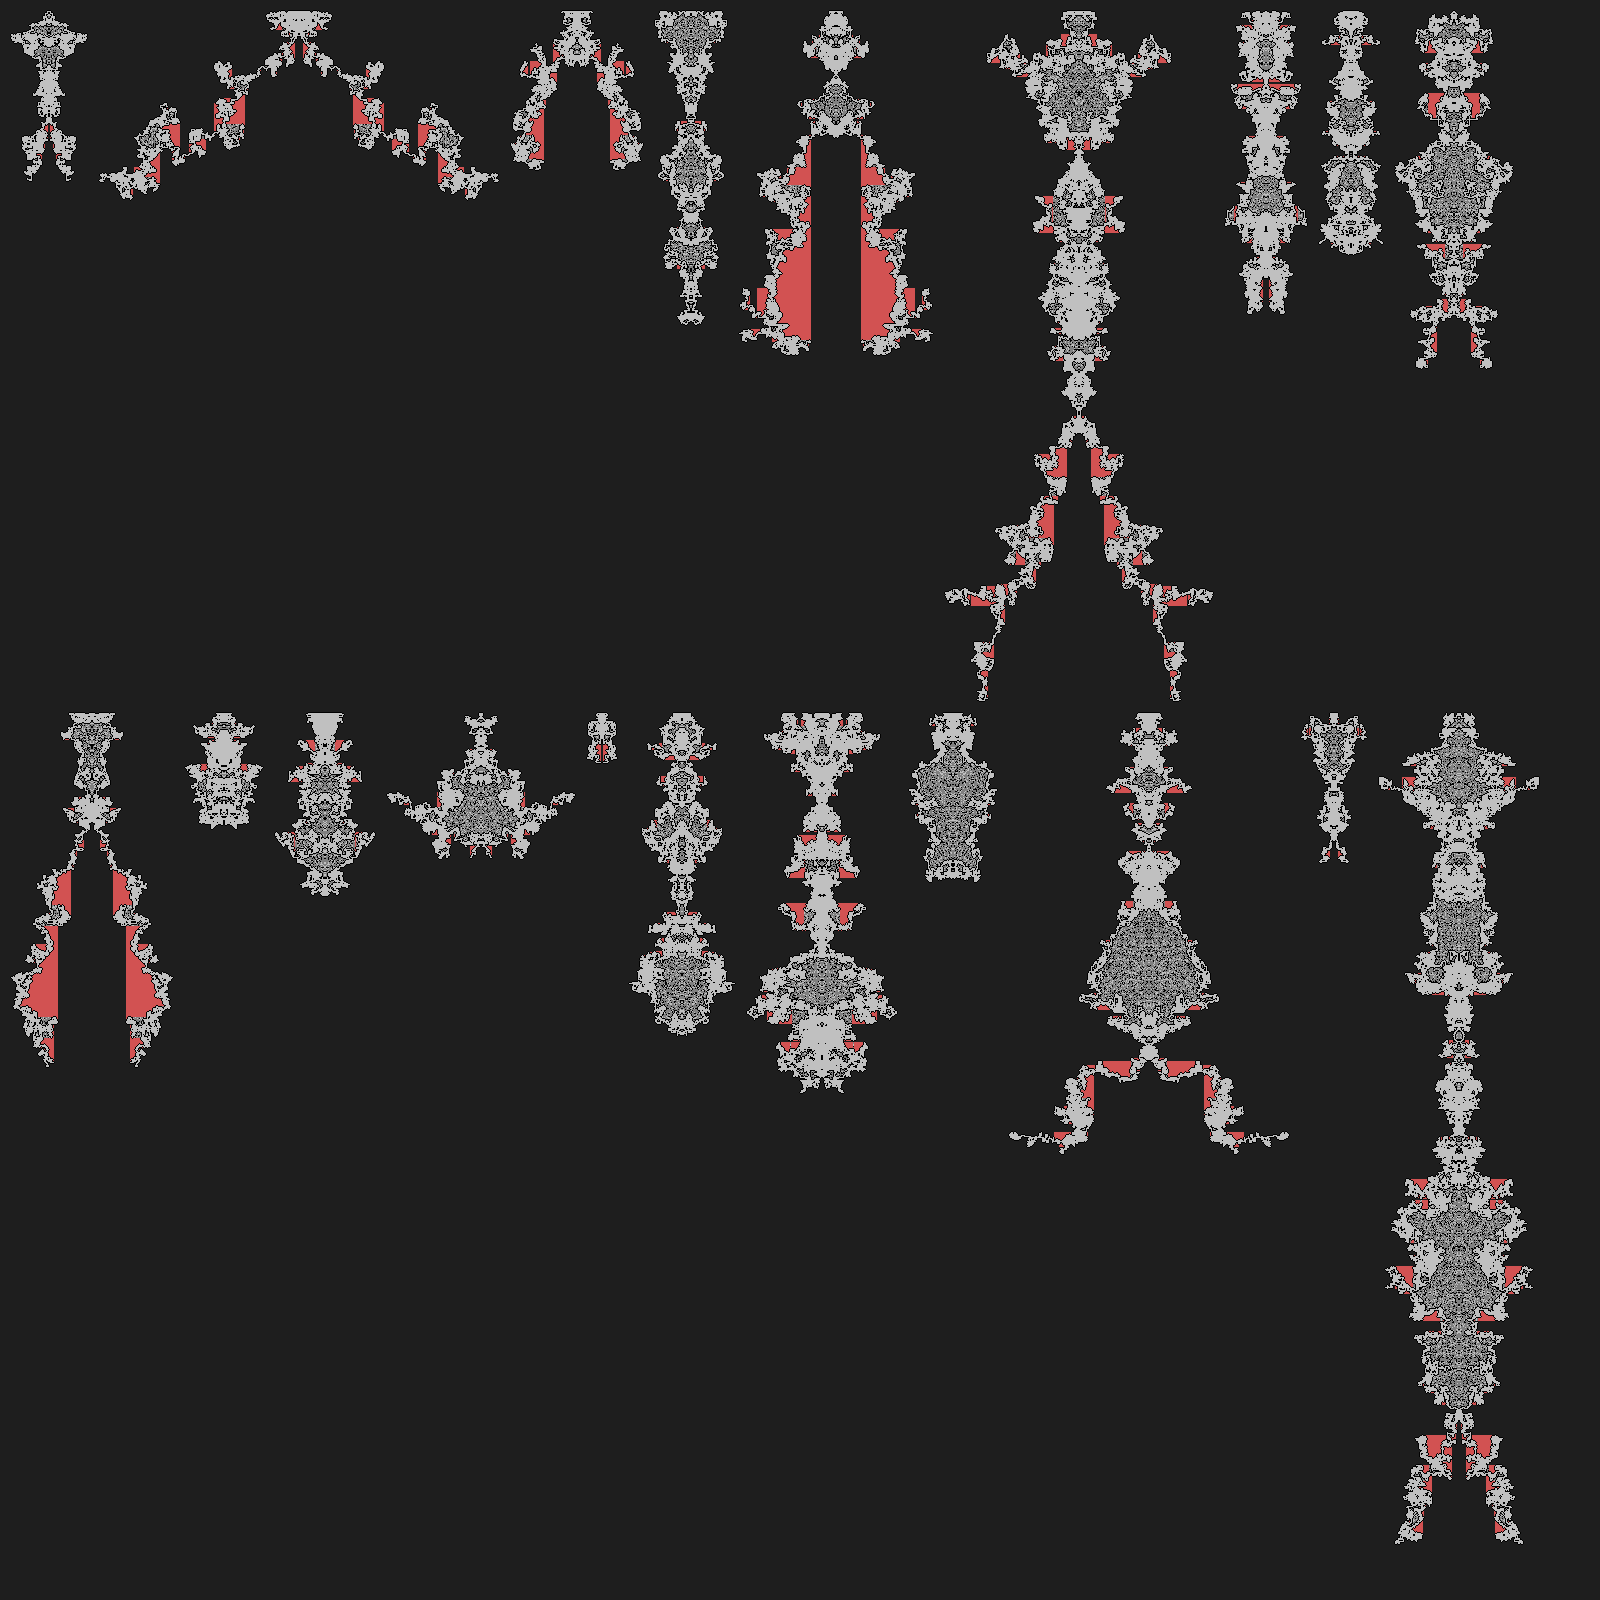
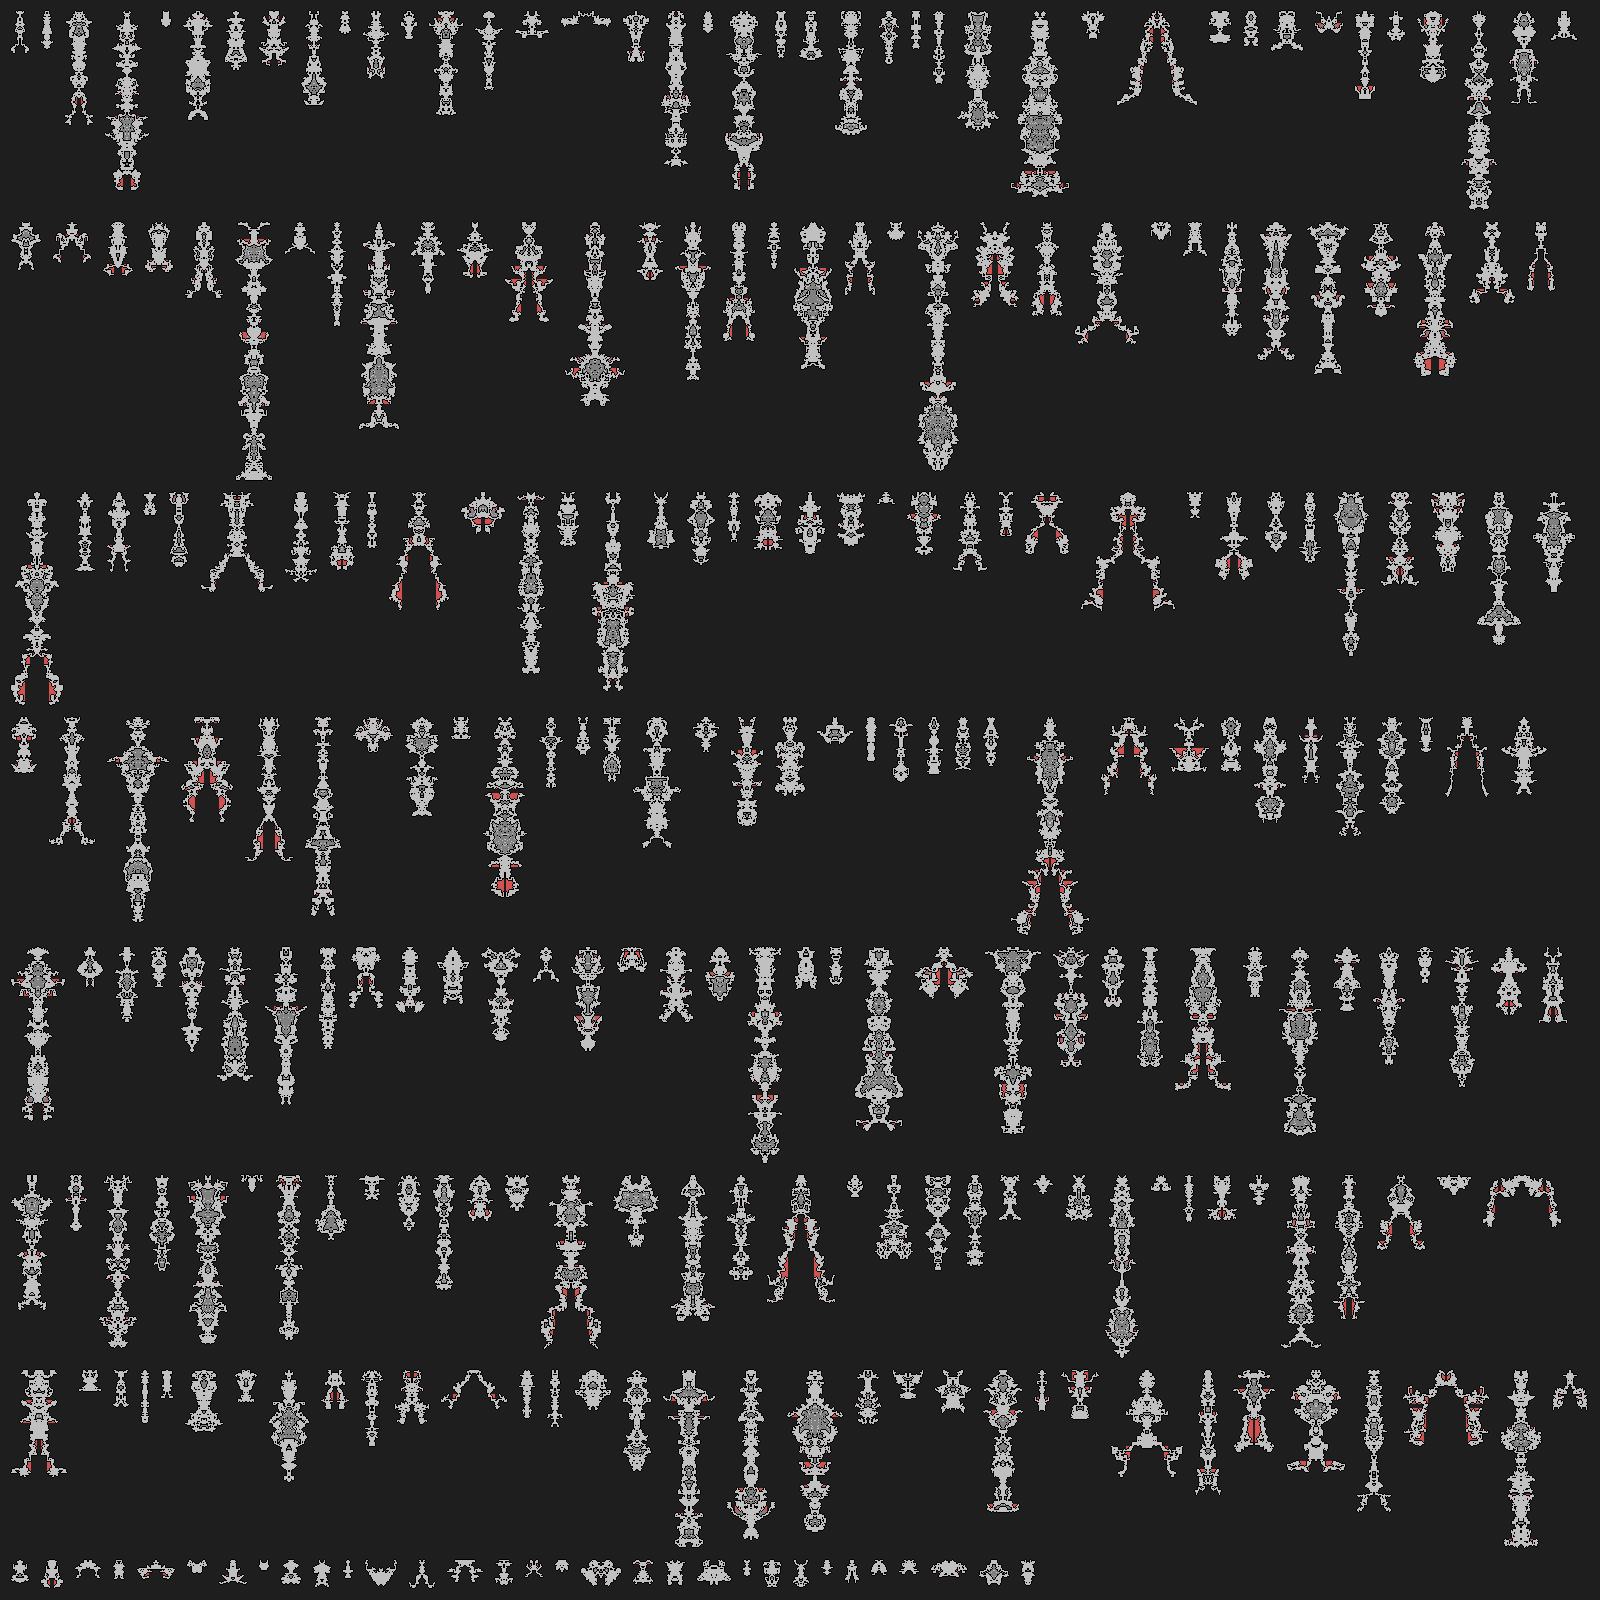
Various changes

Changed region(s): [[0.0, 0.0, 1.0, 1.0]]

diff --git a/src/ajb/factory/VesselGeneratorFactory.java b/src/ajb/factory/VesselGeneratorFactory.java
@@ -1,6 +1,8 @@
 package ajb.factory;
 
 import java.awt.Point;
+import java.util.ArrayList;
+import java.util.List;
 
 import ajb.domain.NeighbouringPoint;
 import ajb.domain.Pixel;
@@ -10,20 +12,80 @@ import ajb.utils.PixelGridUtils;
 
 public class VesselGeneratorFactory {
 
-	// @TODO should really be private and have getter and setters
-	public int ROWS = 1000;
-	public int COLS = 20;
-	public int STEPS = 10;
-	public int SUB_STEPS = 100;
+	private final int ROWS = 500;
+	private final int COLS = 500;
 
 	public Pixel[][] create() {
+
+		Pixel[][] grid = createBaseGrid();
+		addExtras(grid);
+
+		grid = PixelGridUtils.floor(grid);
+		grid = PixelGridUtils.mirrorCopyGridHorizontally(grid);
+		grid = PixelGridUtils.addBorders(grid);
+		grid = PixelGridUtils.floor(grid);
+		PixelGridUtils.fillEmptySurroundedPixelsInGrid(grid);
+		PixelGridUtils.addNoiseToFlatPixels(grid);
+
+		if (validateGrid(grid)) {		
+			return grid;
+		} else {
+			return create();
+		}
+	}
+
+	private boolean validateGrid(Pixel[][] grid) {
+		
+		boolean result = true;
+		
+		int noOfFilledPixels = 0;
+		int noOfSecondaryPixels = 0;
+		int noOfTertiaryPixels = 0;
+		int noOfBorderPixels = 0;
+		int noOfEmptyPixels = 0;
+		
+		for (int x = 0; x < grid.length; x++) {
+			for (int y = 0; y < grid[0].length; y++) {
+				if (grid[x][y].value == Pixel.FILLED) {
+					noOfFilledPixels++;
+				} else if (grid[x][y].value == Pixel.SECONDARY) {
+					noOfSecondaryPixels++;
+				} else if (grid[x][y].value == Pixel.TERTIARY) {
+					noOfTertiaryPixels++;
+				} else if (grid[x][y].value == Pixel.BORDER) {
+					noOfBorderPixels++;
+				} else if (grid[x][y].value == Pixel.EMPTY) {
+					noOfEmptyPixels++;
+				}
+			}
+		}
+		
+		//System.out.println("FILLED:" + noOfFilledPixels + " SECONDARY:" + noOfSecondaryPixels+ " TERTIARY:" + noOfTertiaryPixels + " BORDER:" + noOfBorderPixels + " EMPTY:" + noOfEmptyPixels);
+		
+		if (noOfSecondaryPixels > (noOfFilledPixels / 4)) {
+			result = false;
+			//System.out.println("REJECTED");
+		}
+		
+		if (noOfTertiaryPixels > (noOfFilledPixels / 3)) {
+			result = false;
+			//System.out.println("REJECTED");
+		}	
+		
+		return result;
+	}
+	
+	private Pixel[][] createBaseGrid() {
 
 		Pixel[][] grid = new Pixel[ROWS][COLS];
 		PixelGridUtils.initEmptyGrid(grid, ROWS, COLS);
 
-		Point point = new Point(0, COLS - 1);
+		Point point = new Point(ROWS / 2, COLS - 1);
 
-		for (int i = 0; i < STEPS; i++) {
+		int steps = RandomInt.anyRandomIntRange(5, 50);
+		int subSteps = RandomInt.anyRandomIntRange(5, 100);
+
+		for (int i = 0; i < steps; i++) {
 
 			if (point == null) {
 				// we are passed the first step lets find the lowest most pixel
@@ -40,7 +102,7 @@ public class VesselGeneratorFactory {
 				}
 			}
 
-			for (int y = 0; y < SUB_STEPS; y++) {
+			for (int y = 0; y < subSteps; y++) {
 				// now process points randomly starting with one determined from
 				// above
 				point = processPoint(point, grid);
@@ -48,19 +110,24 @@ public class VesselGeneratorFactory {
 
 			point = null;
 		}
-		
-		for (int i = 0; i < STEPS; i++) {
-			point = getRandomFilledPoint(grid);
-			
-			for (int y = 0; y < SUB_STEPS; y++) {
+
+		return grid;
+	}
+
+	private void addExtras(Pixel[][] grid) {
+
+		int steps = RandomInt.anyRandomIntRange(0, 10);
+		int subSteps = RandomInt.anyRandomIntRange(5, 20);
+
+		for (int i = 0; i < steps; i++) {
+			Point point = PixelGridUtils.getRandomFilledPoint(grid);
+
+			for (int y = 0; y < subSteps; y++) {
 				// now process points randomly starting with one determined from
 				// above
 				point = processPoint(point, grid);
-			}			
+			}
 		}
-		
-
-		return grid;
 	}
 
 	private Point processPoint(Point point, Pixel[][] grid) {
@@ -144,27 +211,5 @@ public class VesselGeneratorFactory {
 		}
 
 		return newPoint;
-	}
-	
-	private Point getRandomFilledPoint(Pixel[][] grid) {
-		
-		Point point = null;
-		
-		while (point == null) {
-			
-			int x = RandomInt.anyRandomIntRange(1, ROWS - 1);
-			int y = RandomInt.anyRandomIntRange(1, COLS - 1);
-			
-			Pixel possiblePixel = grid[x][y];
-			
-			if (possiblePixel.value == Pixel.FILLED) {
-				point = new Point();
-				point.x = x;
-				point.y = y;
-			}
-		}
-		
-		return point;
-		
 	}
 }

diff --git a/src/ajb/utils/ImageUtils.java b/src/ajb/utils/ImageUtils.java
@@ -6,6 +6,9 @@ import java.awt.GraphicsConfiguration;
 import java.awt.GraphicsEnvironment;
 import java.awt.RenderingHints;
 import java.awt.image.BufferedImage;
+import java.awt.image.BufferedImageOp;
+import java.awt.image.ConvolveOp;
+import java.awt.image.Kernel;
 import java.io.File;
 import java.io.IOException;
 import java.util.List;
@@ -17,8 +20,7 @@ import ajb.random.RandomColor;
 
 public class ImageUtils {
 
-	public static BufferedImage outputToImage(Pixel[][] grid, Color borderColor, Color primaryColor, Color secondaryColor,
-			Color tertiaryColor, Color emptyColor) {
+	public static BufferedImage outputToImage(Pixel[][] grid, Color borderColor, Color primaryColor, Color secondaryColor, Color tertiaryColor, Color emptyColor) {
 
 		GraphicsConfiguration gc = GraphicsEnvironment.getLocalGraphicsEnvironment().getDefaultScreenDevice().getDefaultConfiguration();
 
@@ -91,12 +93,11 @@ public class ImageUtils {
 		}
 
 		gr.dispose();
-
 		return img;
 	}
 
-	public static BufferedImage outputAllToImage(List<Pixel[][]> grids, int width, int height, Color borderColor, Color primaryColor,
-			Color secondaryColor, Color tertiaryColor, Color emptyColor) {
+	public static BufferedImage outputAllToImage(List<Pixel[][]> grids, int width, int height, Color borderColor, Color primaryColor, Color secondaryColor, Color tertiaryColor,
+			Color emptyColor) {
 
 		GraphicsConfiguration gc = GraphicsEnvironment.getLocalGraphicsEnvironment().getDefaultScreenDevice().getDefaultConfiguration();
 

diff --git a/src/ajb/utils/PixelGridUtils.java b/src/ajb/utils/PixelGridUtils.java
@@ -350,4 +350,61 @@ public class PixelGridUtils {
 			}
 		}
 	}
+	
+	public static Point getRandomFilledPoint(Pixel[][] grid) {
+		
+		Point point = null;
+		
+		while (point == null) {
+			
+			int x = RandomInt.anyRandomIntRange(1, grid.length - 1);
+			int y = RandomInt.anyRandomIntRange(1, grid[0].length - 1);
+			
+			Pixel possiblePixel = grid[x][y];
+			
+			if (possiblePixel.value == Pixel.FILLED) {
+				point = new Point();
+				point.x = x;
+				point.y = y;
+			}
+		}
+		
+		return point;
+		
+	}	
+	
+	public static void mergeGridsRandomly(Pixel[][] sourceGrid, Pixel[][] targetGrid) {
+		
+		int attempts = 0;
+		
+		Point targetPoint = null;
+		
+		while (targetPoint == null || attempts < 10) {
+			
+			Point potentialPoint = getRandomFilledPoint(targetGrid);
+			potentialPoint.x = potentialPoint.x - sourceGrid.length-1;
+			potentialPoint.y = potentialPoint.y - sourceGrid[0].length-1;
+			
+			if (isPointWithinGrid(potentialPoint, targetGrid)) {
+				targetPoint = potentialPoint;
+			}
+			
+			attempts++;
+		}
+		
+		if (targetPoint != null) {	
+
+			int startY = targetPoint.y;
+			
+			for (int r = 0; r < sourceGrid.length; r++) {
+				for (int c = 0; c < sourceGrid[0].length; c++) {
+					targetGrid[targetPoint.x][targetPoint.y].value = sourceGrid[r][c].value;
+					targetPoint.y = targetPoint.y + 1;
+				}
+				
+				targetPoint.x = targetPoint.x + 1;
+				targetPoint.y = startY;
+			}			
+		}				
+	}
 }

diff --git a/examples/ajb/examples/CreateImageFullOfVessels.java b/examples/ajb/examples/CreateImageFullOfVessels.java
@@ -22,22 +22,9 @@ public class CreateImageFullOfVessels {
 		List<Pixel[][]> grids = new ArrayList<Pixel[][]>();
 
 		// create X vessels and add to our list
-		for (int i = 0; i < 100; i++) {
-			
-			factory.ROWS = 1000; // height
-			factory.COLS = 1000; // width
-			factory.STEPS = RandomInt.anyRandomIntRange(10, 50); // how many iterations
-			factory.SUB_STEPS = RandomInt.anyRandomIntRange(50, 100); // how many steps within each iteration			
-			
-			Pixel[][] grid = factory.create();
+		for (int i = 0; i < 500; i++) {
 
-			// @TODO Wrap all this up within the factory?
-			grid = PixelGridUtils.floor(grid);
-			grid = PixelGridUtils.mirrorCopyGridHorizontally(grid);
-			grid = PixelGridUtils.addBorders(grid);
-			grid = PixelGridUtils.floor(grid);
-			PixelGridUtils.fillEmptySurroundedPixelsInGrid(grid);
-			PixelGridUtils.addNoiseToFlatPixels(grid);
+			Pixel[][] grid = factory.create();
 
 			// add grid to list
 			grids.add(grid);
